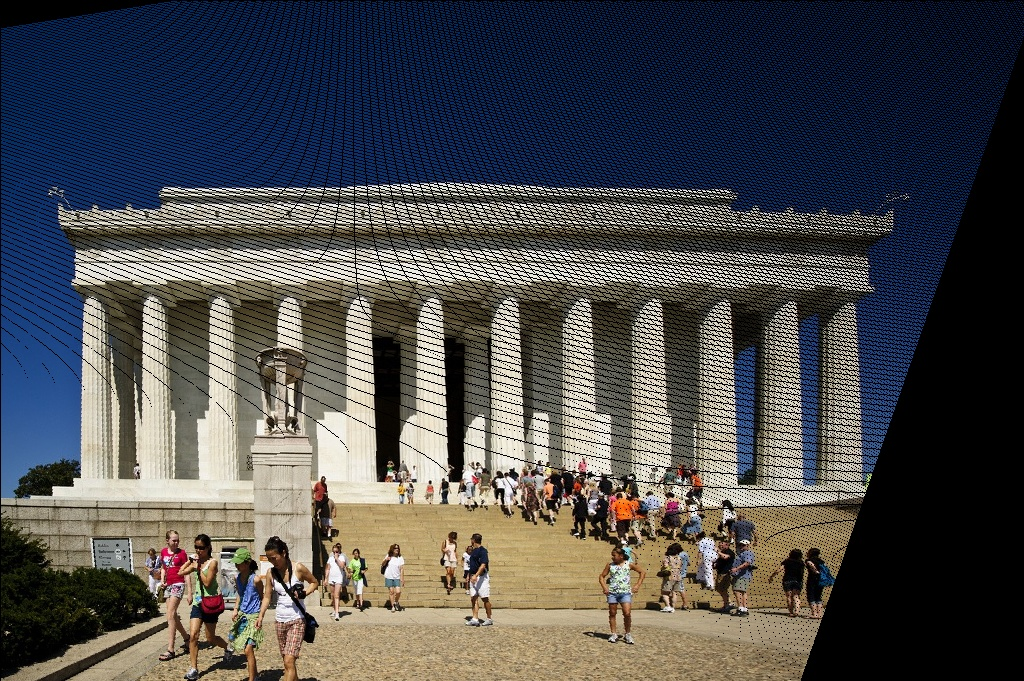
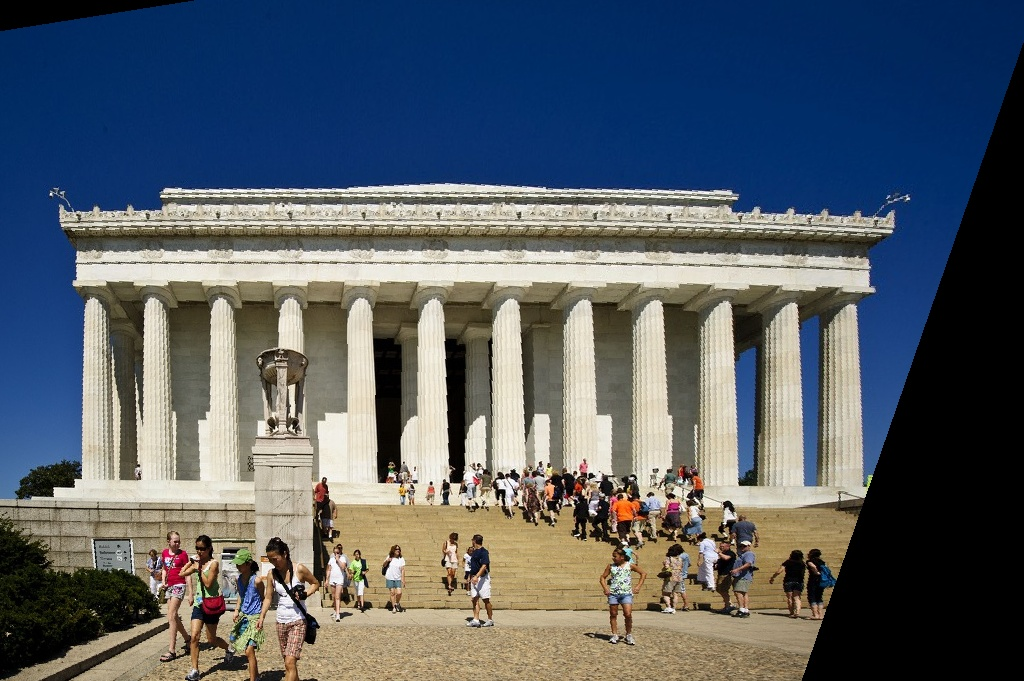
updated to apply inverse warping

diff --git a/part2.py b/part2.py
@@ -27,26 +27,28 @@ TRANSFORMATIONS = [
 def Apply_Transformation(img, transform_idx):
 
     # Get transformation to apply
-    transform_array = TRANSFORMATIONS[transform_idx]
+    # Take the inverse to perform inverse warping
+    transform_array = np.linalg.inv(TRANSFORMATIONS[transform_idx])
 
     # Initialize new image
     new_img = np.zeros(shape=img.shape)
 
-    # Loop through coordinates and apply transformation
-    for r in range(img.shape[0]):
-        for c in range(img.shape[1]):
+    # Loop through coordinates and
+    # apply inverse transformation
+    for r in range(new_img.shape[0]):
+        for c in range(new_img.shape[1]):
             current_coor = np.array([c, r, 1])
-            new_coor = np.matmul(transform_array, current_coor)
-            new_x = int(new_coor[0] / new_coor[2])
-            new_y = int(new_coor[1] / new_coor[2])
-            # Update new image if new coordinate
+            old_coor = np.matmul(transform_array, current_coor)
+            old_x = int(old_coor[0] / old_coor[2])
+            old_y = int(old_coor[1] / old_coor[2])
+            # Update new image if old coordinate
             # is within the image coordinate bounds
-            if new_y < img.shape[0] and \
-                new_x < img.shape[1] and \
-                new_y > 0 and \
-                new_x > 0:
+            if old_y < img.shape[0] and \
+                old_x < img.shape[1] and \
+                old_y > 0 and \
+                old_x > 0:
 
-                    new_img[new_y, new_x] = img[r, c]
+                    new_img[r, c] = img[old_y, old_x]
 
     return new_img
 
